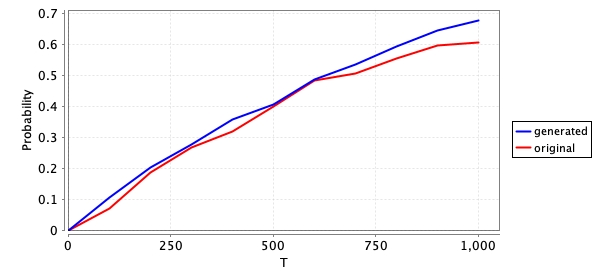
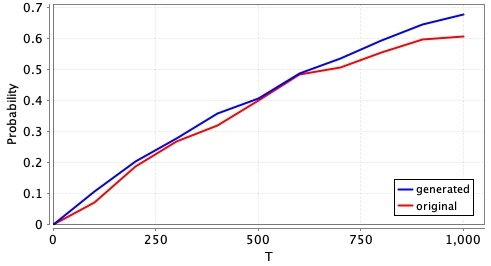
minor

Changed region(s): [[0.0, 0.0, 1.0, 0.9323], [0.8554, 0.4211, 1.0, 0.5714], [0.4582, 0.9323, 0.4888, 0.9624]]

diff --git a/tex/tests.tex b/tex/tests.tex
@@ -272,7 +272,7 @@ endmodule
 \begin{wrapfigure}{r}{0.41\textwidth}
 	\vspace{-0.75cm}
 	\centering
-	\includegraphics[scale=0.22]{example4-results.jpeg}	
+	\includegraphics[scale=0.28]{example4-results.jpeg}	
 	\vspace{-0.25cm}
 	\caption{}
 	\label{ex3-res}
@@ -381,10 +381,11 @@ endmodule
 \begin{wrapfigure}{r}{0.4\textwidth}
 	\vspace{-0.75cm}
 	\centering
-	\includegraphics[scale=0.27]{example6-results.jpeg}	
+	\includegraphics[scale=0.35]{example6-results.jpeg}	
 	\caption{}
 	\vspace{-0.25cm}
 	\label{ex5-res}
+	\vspace{-0.25cm}
 	\end{wrapfigure}
 The code closely resembles the one outlined in \cite{DBLP:journals/distribledger/GallettaLMV23}, with the main distinction being the greater number of lines in our generated model. 
 This difference is due to the fact that certain commands could be combined, but our generation lacks the automatic capability to perform this check. While the results exhibit similarity, running simulations for the generated model takes PRISM 39.016 seconds, compared to the 22.051 seconds required for the original model.

diff --git a/tex/proj.tex b/tex/proj.tex
@@ -16,10 +16,10 @@ abuse of notation and assume that each interaction in a choreography
 is annotated with a unique label (which will be used by the
 projection). We call such a choreography an {\em annotated
   choreography}. For example, the choreography
-$\interactBase{p}{q}\ \lambda_1: \CEnd \ +\ \lambda_2: \ifTE
+$\interactBase{p}{q} +\ \lambda_1: \CEnd \ +\ \lambda_2: \ifTE
   {E}{p}{\CEnd}{\CEnd}$ is going to be annotated as
-  $\interactBasel{p}{a_1}{q}\ \lambda_1: \CEnd \ +\ \lambda_2: \ifTEl
-    {E}{a_2}{p}{\CEnd}{\CEnd}$, with $a_1$ and $a_2$ distinct.
+  $\interactBasel{p}{a}{q} +\ \lambda_1: \CEnd \ +\ \lambda_2: \ifTEl
+    {E}{}{p}{\CEnd}{\CEnd}$.
 % %
 % \MC{We need to say that we must run some standard static checks
 % because, since there is branching, some terms may not be
